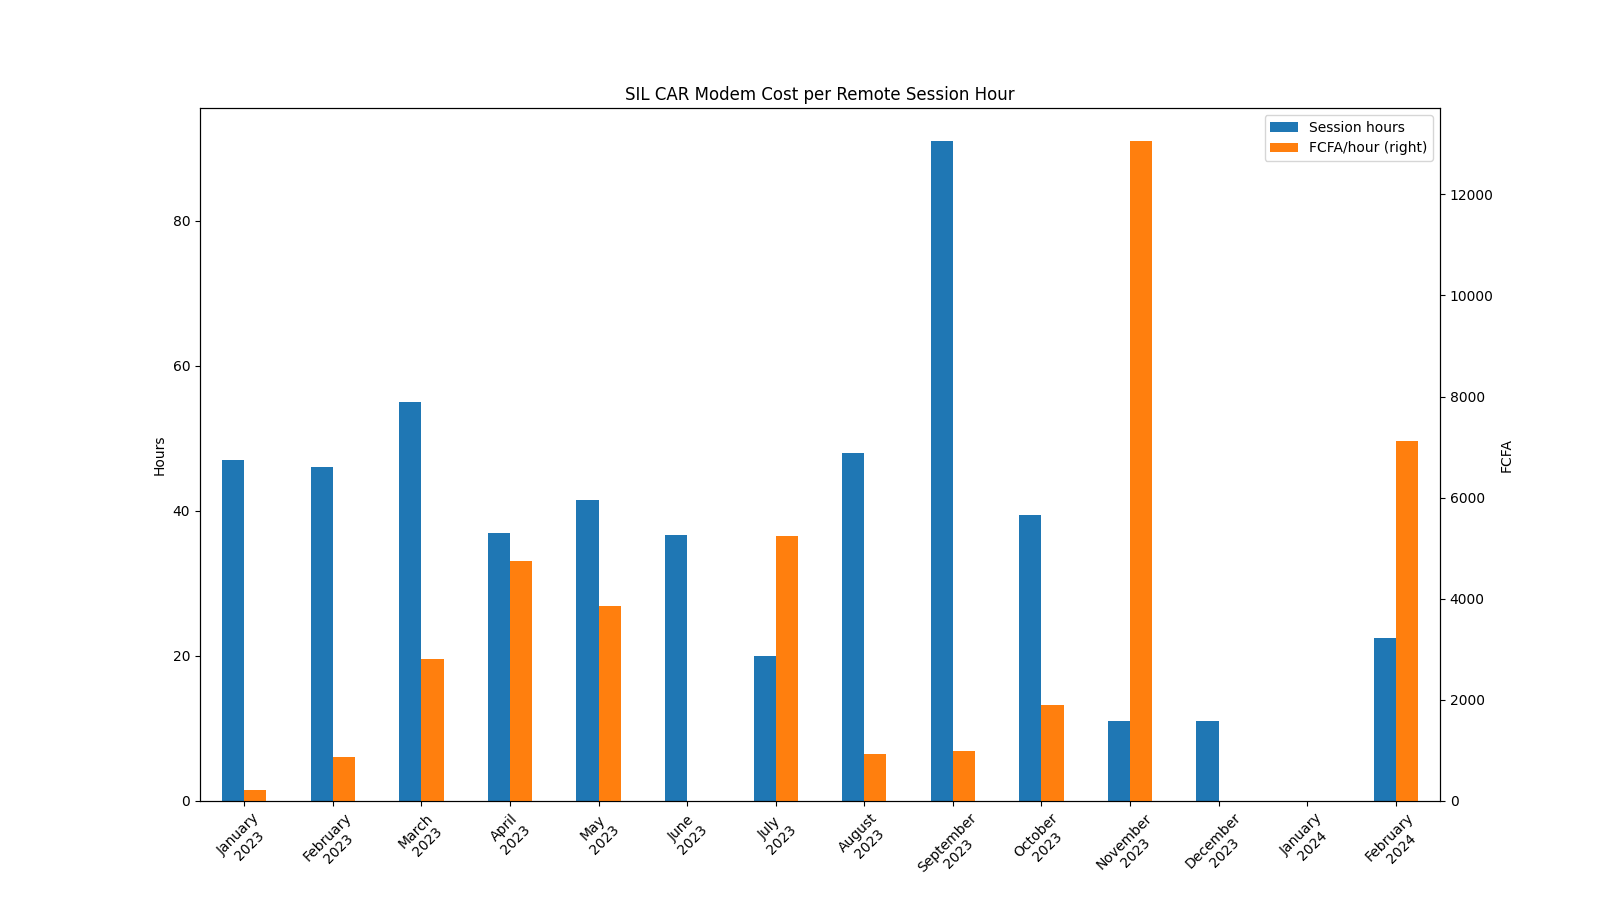
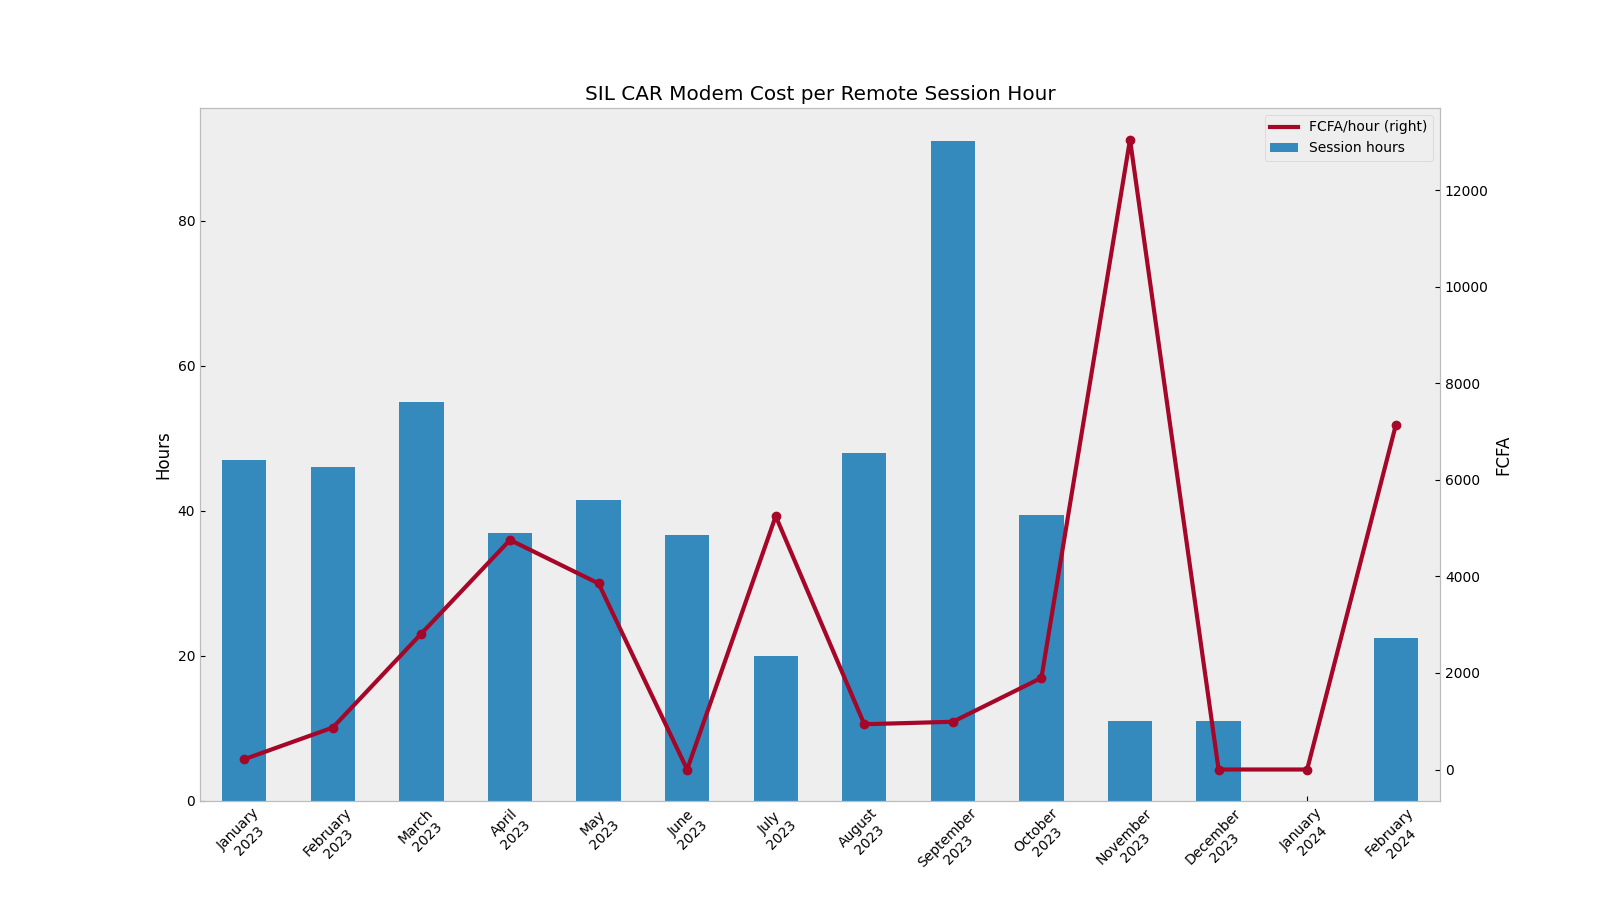
update plot style

diff --git a/service_reports_generator.py b/service_reports_generator.py
@@ -5,8 +5,12 @@ import matplotlib.pyplot as plt
 import pandas as pd
 from pathlib import Path
 
-OUTDIR = Path('./charts')
-OUTDIR.mkdir(parents=True, exist_ok=True)
+# style = 'ggplot'
+# style = 'bmh'
+# plt.style.use(style)
+# # plt.rc(grid=False)
+# OUTDIR = Path('./charts')
+# OUTDIR.mkdir(parents=True, exist_ok=True)
 
 
 def parse_cli():
@@ -186,16 +190,30 @@ def gen_comparison_plot(title=None):
     rot = 45
     width = 0.5
 
-    ax = df[[cols[0], cols[2]]].plot(
-        kind='bar',
-        figsize=(16, 9),
+    fig, ax = plt.subplots(1)
+    ax1 = df[cols[2]].plot(
+        ax=ax,
         secondary_y=cols[2],
         ylabel="FCFA",
+        use_index=False,
+        color=COLORS[1],
+        marker='o',
+        lw=3,
+        legend=True,
+    )
+    ax2 = df[cols[0]].plot(
+        ax=ax,
+        kind='bar',
+        color=COLORS[0],
         width=width,
         rot=rot,
+        legend=True,
+        figsize=(16, 9),
     )
+    ax.set_ylabel("Hours")
+    ax1.grid(False)
+    ax2.grid(False)
     ax.set_xticklabels(map(monthly_fmt, df.index))
-    ax.set_ylabel('Hours')
     ax.set_xlabel(None)
     plt.title(title)
 
@@ -273,6 +291,17 @@ def test():
 
 
 def main():
+    style = 'bmh'
+    plt.style.use(style)
+    plt.rc('axes', axisbelow=True)
+
+    global COLORS
+    COLORS = plt.rcParams['axes.prop_cycle'].by_key()['color']
+
+    global OUTDIR
+    OUTDIR = Path('./charts')
+    OUTDIR.mkdir(parents=True, exist_ok=True)
+
     # pd.set_option('copy_on_write', True)
     args = parse_cli()
 
